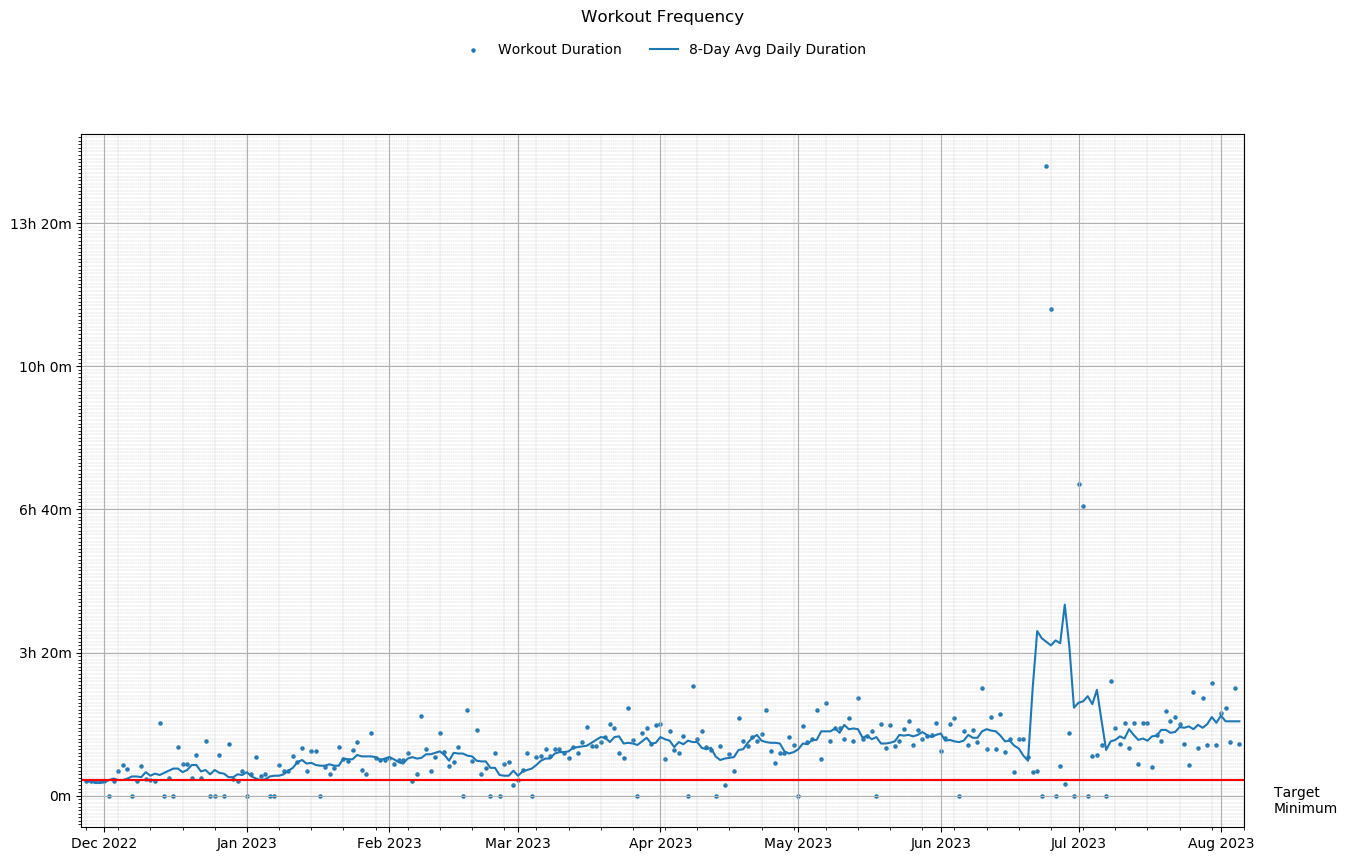
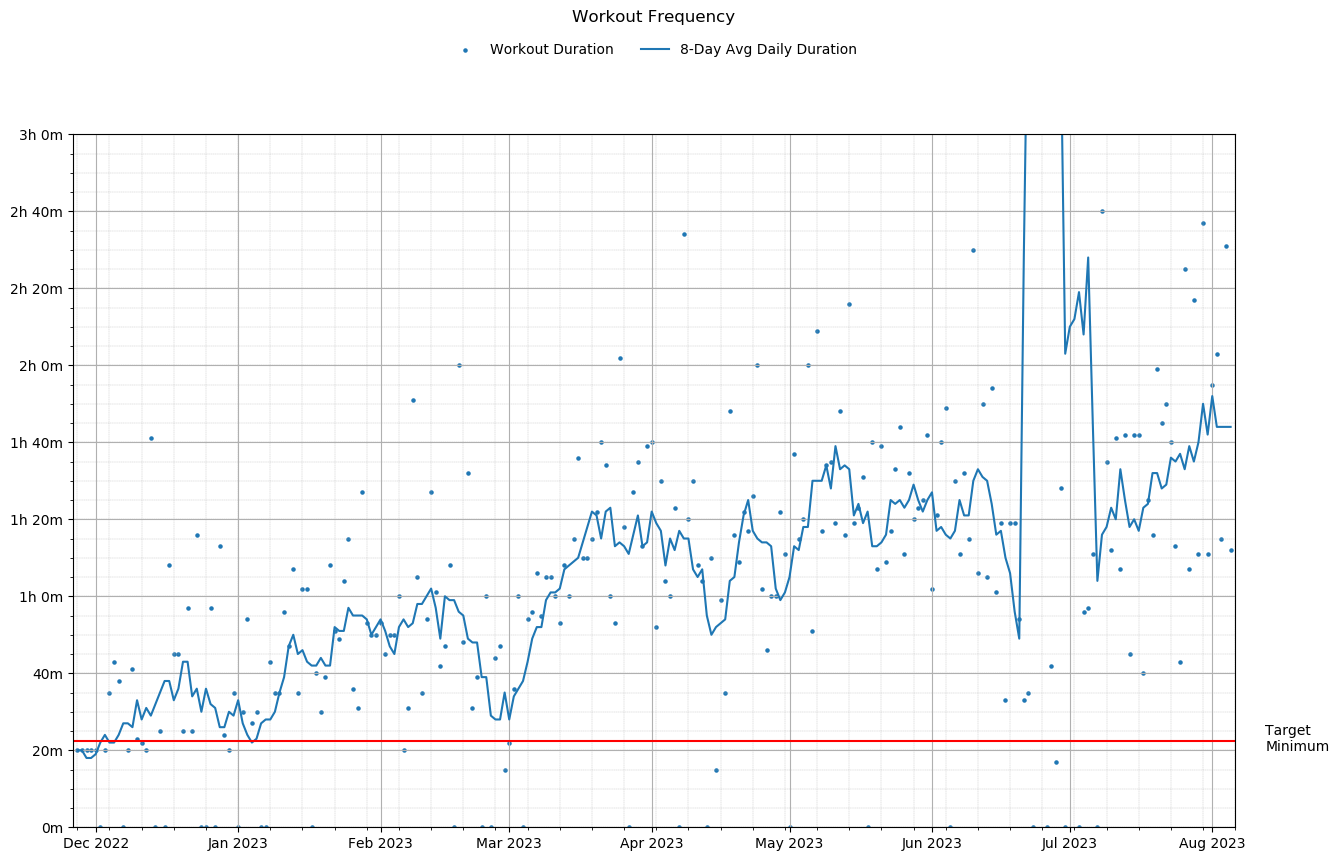
Set hard limit on workout frequency graph to ignore backpacking outliers

diff --git a/src/exercise_log/vis/__init__.py b/src/exercise_log/vis/__init__.py
@@ -33,6 +33,8 @@ def plot_workout_frequency(
     show_plot=True,
 ):
     NON_GRAPH_GCF_PERCENT = 0.1
+    WORKOUT_FREQUENCY_BOTTOM_OFFSET = 0.03
+    Y_MIN, Y_MAX = 0, 180  # Setting a 3 hour max since there's a few backpacking days that mess up the scale
 
     # Draw the main graph contents and setup the axes
     workout_durations_mins = all_workouts[DURATION] // 60
@@ -50,7 +52,7 @@ def plot_workout_frequency(
 
     # Delineate the ideal minimum daily exercise threshold as a horizontal reference line
     plt.axhline(y=MIN_DAILY_ACTIVE_MINUTES, color='r', linestyle='-')
-    y_percent_min_daily_active = MIN_DAILY_ACTIVE_MINUTES / max(workout_durations_mins)
+    y_percent_min_daily_active = (MIN_DAILY_ACTIVE_MINUTES / Y_MAX) - WORKOUT_FREQUENCY_BOTTOM_OFFSET
     y_pos = y_percent_min_daily_active + NON_GRAPH_GCF_PERCENT
     plt.gcf().text(RIGHT_OF_AXIS_X_COORD, y_pos, "Target\nMinimum")
 
@@ -59,6 +61,7 @@ def plot_workout_frequency(
     configure_x_axis_by_month(all_workouts)
     ax.yaxis.set_major_formatter(ticker.FuncFormatter(convert_mins_to_hour_mins))
     ax.yaxis.set_minor_locator(ticker.MultipleLocator(5))
+    ax.set_ylim([Y_MIN, Y_MAX])
     plt.grid(visible=True)
     plt.grid(visible=True, which="minor", linestyle="--", linewidth="0.25")
 
@@ -142,7 +145,7 @@ def plot_weight(
     export_dir: Optional[str] = None,
     show_plot=True,
 ):
-    Y_MIN, Y_MAX = 180, 300
+    Y_MIN, Y_MAX = 180, 305
 
     nonnull_weights = health_metrics[health_metrics[WEIGHT].notnull()]
     padded_dates = get_padded_dates(nonnull_weights, n_days_to_extrapolate)
@@ -172,7 +175,7 @@ def plot_weight(
 
     # Set up axes
     ax = plt.gca()
-    configure_x_axis_by_month(all_workouts, end_padding_days=n_days_to_extrapolate)
+    configure_x_axis_by_month(nonnull_weights, end_padding_days=n_days_to_extrapolate)
     ax.yaxis.set_minor_locator(ticker.MultipleLocator(5))
     ax.set_ylim([Y_MIN, Y_MAX])
     plt.grid(visible=True)
